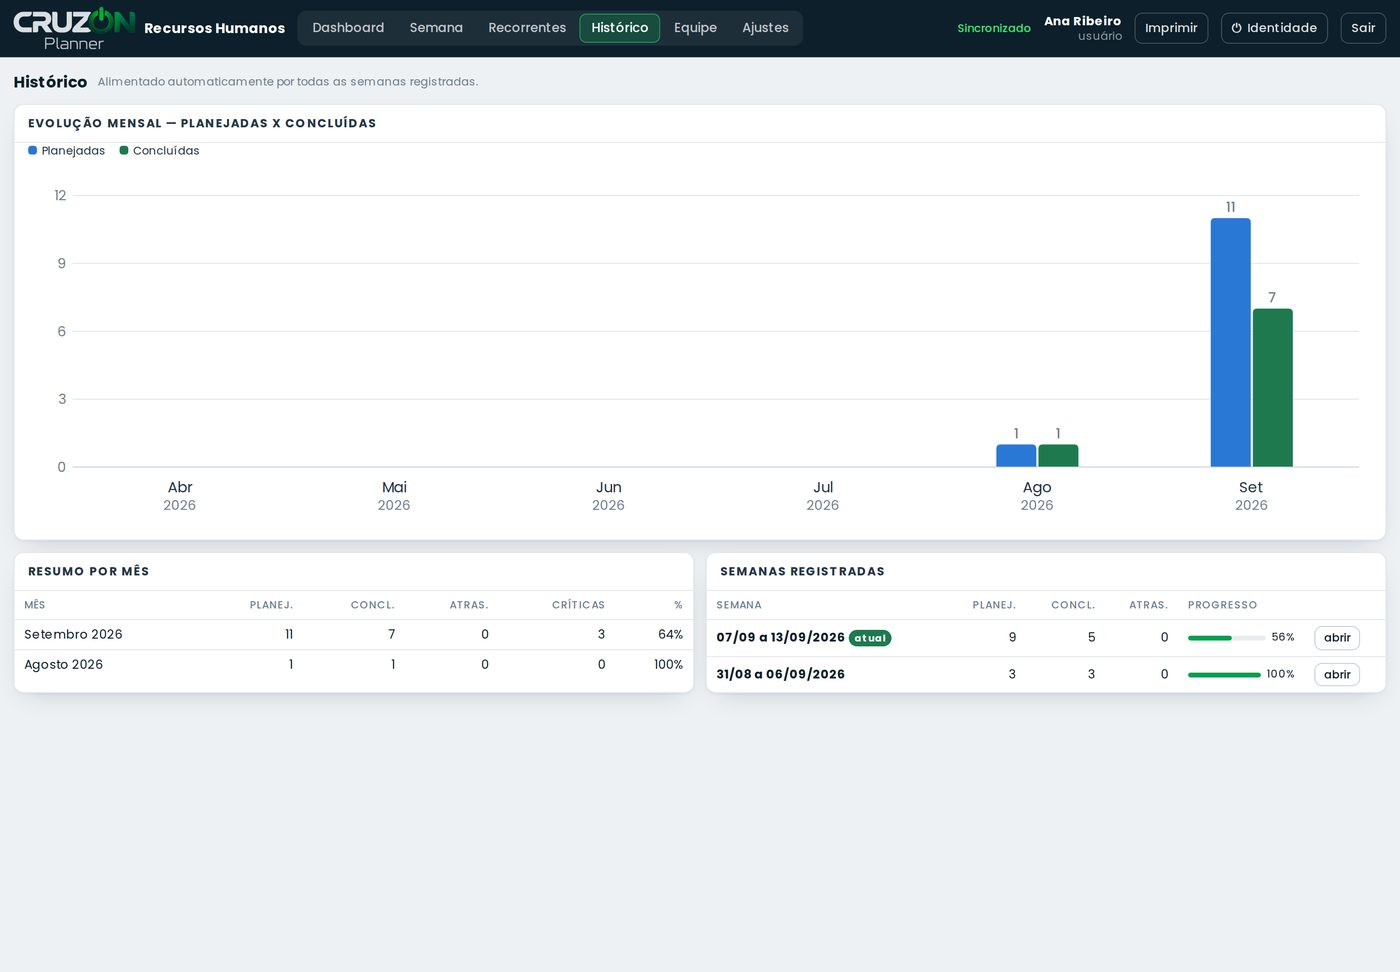
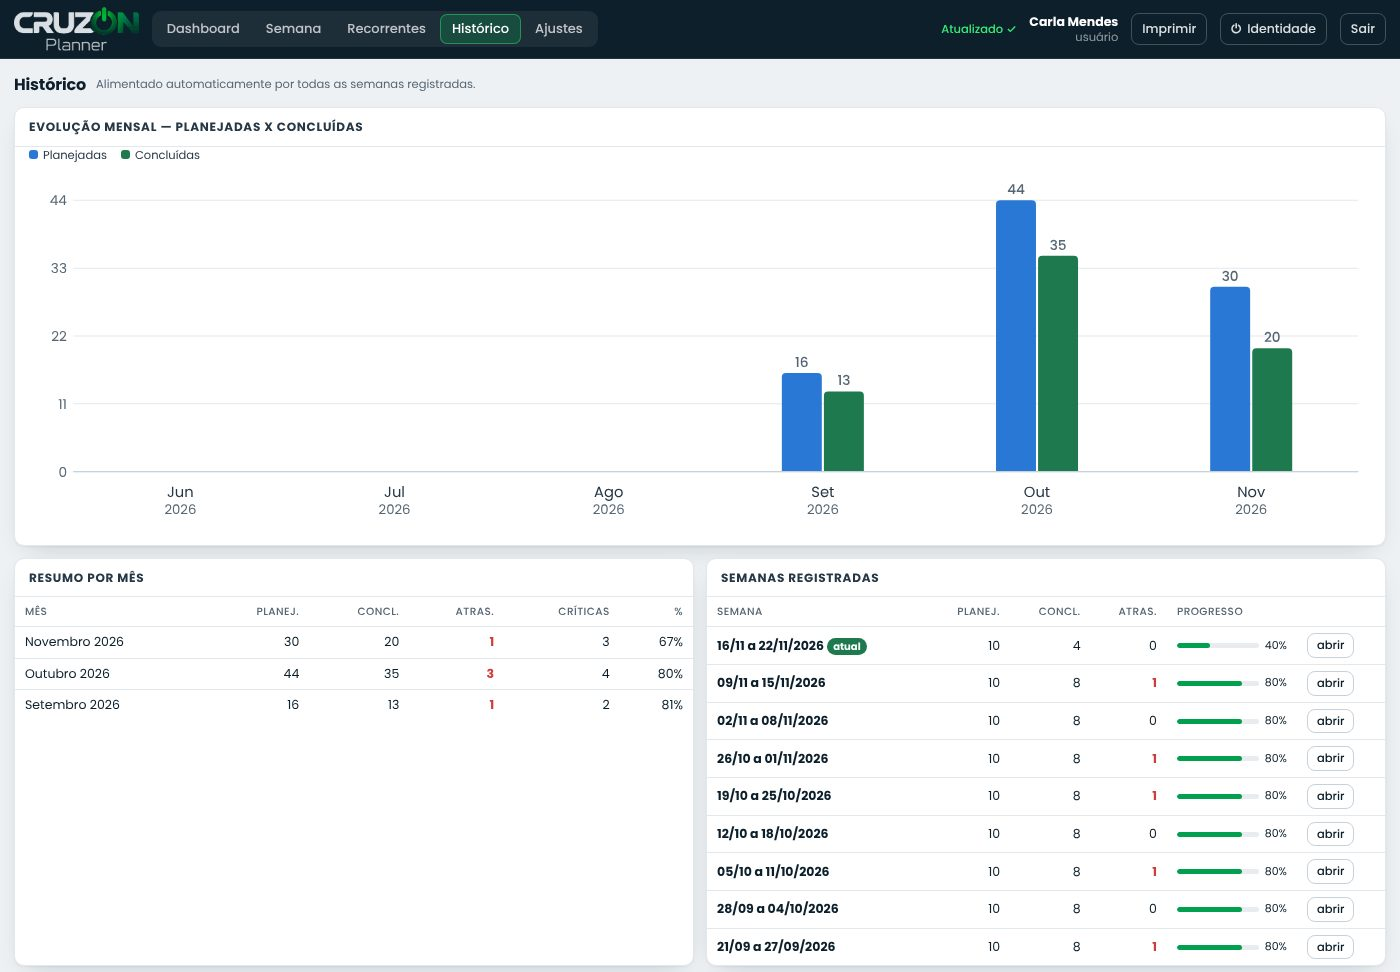
Página Conheça por app e prints do Planner só com dados fictícios
- Prints do Planner (manual e página Conheça) refeitos com uma pessoa e
  tarefas fictícias de escritório.
- Exemplos que o Planner dá a quem cria conta: áreas "Administrativo" e
  "Financeiro" e rotinas genéricas, no lugar das empresas e rotinas reais.
- Página Conheça: destaques, segurança, planos e perguntas próprios de
  cada app.

Claude-Session: https://claude.ai/code/session_012uehhAKXC5U5N1Yu2xeYap

diff --git a/conheca/index.html b/conheca/index.html
@@ -206,12 +206,7 @@ footer a{color:var(--verde-esc);font-weight:700;text-decoration:none;margin-righ
 </section>
 
 <div class="faixa">
-  <ul class="wrap">
-    <li><span class="n">🔗</span><div><b>3 apps, 1 conta</b><span>O mesmo e-mail e senha em todos</span></div></li>
-    <li><span class="n">🔒</span><div><b>Dados protegidos</b><span>Criptografia e acesso só seu</span></div></li>
-    <li><span class="n">📱</span><div><b>Computador e celular</b><span>Instala como app, sem loja</span></div></li>
-    <li><span class="n">💸</span><div><b>Teste grátis</b><span>Depois, mensal ou anual por Pix</span></div></li>
-  </ul>
+  <ul class="wrap" id="faixa"></ul>
 </div>
 
 <section id="recursos">
@@ -233,13 +228,8 @@ footer a{color:var(--verde-esc);font-weight:700;text-decoration:none;margin-righ
 <section id="seguranca">
   <div class="wrap">
     <div class="seg">
-      <div><span class="eyebrow">Segurança e privacidade</span><h2>Seus dados são só seus</h2>
-        <p>Os apps CruzOn foram feitos para guardar informações pessoais com cuidado. Você entra com a sua senha, e o que é seu fica protegido: nem o administrador lê os seus lançamentos.</p></div>
-      <ul>
-        <li><span>🔐</span><div><b>Criptografia no seu aparelho</b><small>No Finance e no CruzInvest, os dados são criptografados antes de ir para a nuvem.</small></div></li>
-        <li><span>☁</span><div><b>Sincronizado e com cópia</b><small>O que muda no celular aparece no computador, e você pode baixar um backup quando quiser.</small></div></li>
-        <li><span>⚖</span><div><b>Transparência (LGPD)</b><small>Aviso de Privacidade e Termos de Uso claros, e exportação dos seus dados a qualquer momento.</small></div></li>
-      </ul>
+      <div><span class="eyebrow">Segurança e privacidade</span><h2 id="segTit"></h2><p id="segTxt"></p></div>
+      <ul id="segItens"></ul>
     </div>
   </div>
 </section>
@@ -247,7 +237,7 @@ footer a{color:var(--verde-esc);font-weight:700;text-decoration:none;margin-righ
 <section id="planos" style="padding-top:20px">
   <div class="wrap centro">
     <span class="eyebrow">Planos</span>
-    <h2 class="tit">Experimente grátis, assine quando quiser</h2>
+    <h2 class="tit" id="planTit">Experimente grátis, assine quando quiser</h2>
     <p class="lead2">Cada app tem o seu período de teste. Gostou? Escolha o plano mensal ou anual e pague com Pix, sem burocracia.</p>
     <div class="planos">
       <div class="plano"><small>Teste</small><div class="preco">Grátis</div><p>Para conhecer o app com calma.</p>
@@ -260,7 +250,7 @@ footer a{color:var(--verde-esc);font-weight:700;text-decoration:none;margin-righ
         <ul><li>Todas as funções</li><li>Sincronização entre aparelhos</li><li>Pagamento por Pix</li></ul>
         <a class="btn out" data-criar href="#">Criar conta e testar</a></div>
     </div>
-    <p class="nota-planos">Os valores de cada app aparecem dentro dele, na tela de assinatura, ao fim do teste.</p>
+    <p class="nota-planos" id="planNota"></p>
   </div>
 </section>
 
@@ -268,14 +258,7 @@ footer a{color:var(--verde-esc);font-weight:700;text-decoration:none;margin-righ
   <div class="wrap centro">
     <span class="eyebrow">Dúvidas frequentes</span>
     <h2 class="tit">Perguntas comuns</h2>
-    <div class="faq">
-      <details><summary>Preciso pagar para começar?</summary><p>Não. Toda conta nova começa com um período de teste grátis em cada app, sem cartão de crédito. Ao fim do teste, você escolhe se quer assinar.</p></details>
-      <details><summary>Uma conta vale para os três apps?</summary><p>Sim. Com o mesmo e-mail e senha você entra no CruzOn Planner, no CruzOn Finance e no CruzInvest. Cada app tem o seu teste e a sua assinatura.</p></details>
-      <details><summary>Funciona no celular?</summary><p>Funciona no computador e no celular, pelo navegador. Dá para instalar na tela inicial como um aplicativo, sem passar pela loja, e os dados aparecem iguais nos dois.</p></details>
-      <details><summary>Como pago a assinatura?</summary><p>Por Pix, direto na tela de assinatura do app: aparece o QR code com o valor do plano e o botão para enviar o comprovante. O acesso é liberado assim que o pagamento é confirmado.</p></details>
-      <details><summary>Meus dados ficam seguros?</summary><p>Sim. O acesso é protegido pela sua senha e, no Finance e no CruzInvest, os dados são criptografados no seu aparelho antes de ir para a nuvem. Você também pode baixar um backup quando quiser.</p></details>
-      <details><summary>E se o teste acabar?</summary><p>Seus dados continuam guardados. Você pode baixar uma cópia ou assinar para continuar usando de onde parou.</p></details>
-    </div>
+    <div class="faq" id="faq"></div>
   </div>
 </section>
 
@@ -308,6 +291,9 @@ const APPS={
     blocos:[["../manual-semana.jpg","Semana","Planeje a semana arrastando tarefas",["Cada dia com suas tarefas, prioridade e prazo","Radar para o que ainda não tem data","Percentual concluído em cada tarefa"]],
       ["../manual-dash.jpg","Painel","Saiba o que está atrasado antes que vire problema",["Indicadores do andamento da semana","Atrasos e prioridades em destaque","Visão por empresa ou área"]],
       ["../manual-rec.jpg","Recorrentes","O que se repete, o app lança sozinho",["Tarefas semanais e mensais automáticas","Relatório de pendências no seu e-mail","Histórico de tudo o que foi feito"]]],
+    faixa:[["🗓","Semana num quadro","Tarefas por dia, prioridade e prazo"],["🔁","Rotinas automáticas","O que se repete entra sozinho"],["✉","Relatório por e-mail","Suas pendências nos dias que escolher"],["📱","Computador e celular","Instala como app, sem loja"]],
+    seg:["Sua rotina guardada com segurança","Cada pessoa tem o seu acesso e a sua lista de tarefas. O que você planeja fica ligado à sua conta e aparece igual em qualquer computador ou celular.",[["🔐","Acesso só seu","Entrada com e-mail e senha; cada perfil vê apenas as próprias tarefas."],["☁","Sempre sincronizado","Planeje no computador e confira no celular, sem perder nada."],["⚖","Transparência (LGPD)","Aviso de Privacidade claro e exportação dos seus dados quando quiser."]]],
+    faq:[["Serve para qualquer área?","Sim. Funciona para administrativo, financeiro, comercial, RH ou qualquer rotina de escritório: você cria as suas próprias áreas ou empresas e organiza as tarefas por elas."],["Dá para usar com a equipe?","Sim. Cada pessoa tem o seu acesso, e o administrador acompanha o andamento da equipe num painel próprio."]],
     passos:[["Crie sua conta","Nome, e-mail e senha. O teste começa no primeiro uso."],["Monte a sua semana","Lance as tarefas e as recorrentes; o app cuida do resto."],["Acompanhe de qualquer lugar","Computador ou celular, tudo sincronizado."]]},
   finance:{nome:"CruzOn Finance",curto:"Receitas, despesas e metas",ic:"../finance/icone-192.png",url:"../finance/",
     tit:'Seu dinheiro organizado, <em>sem planilhas</em>.',
@@ -318,6 +304,9 @@ const APPS={
     blocos:[["img/finance-painel.jpg","Painel","Entenda o seu mês num olhar",["Saldo das carteiras, receitas e despesas","Para onde foi o dinheiro, por categoria","Assistente que avisa o que merece atenção"]],
       ["img/finance-cartoes.jpg","Cartões e contas","Faturas, parcelas e contas fixas no lugar certo",["Cada compra cai na fatura certa","Parcelas lançadas para os meses seguintes","Alertas do que vence e do que atrasou"]],
       ["img/finance-metas.jpg","Orçamentos e metas","Planeje o futuro da família",["Limite por categoria com aviso ao estourar","Metas com quanto guardar por mês","9 relatórios em PDF e Excel"]]],
+    faixa:[["💳","Cartões e faturas","Cada compra na fatura certa"],["🔔","Alertas de vencimento","O que vence hoje e o que atrasou"],["🎯","Orçamentos e metas","Quanto gastar e quanto guardar"],["📄","Relatórios em PDF e Excel","9 relatórios prontos"]],
+    seg:["Seu dinheiro é assunto só seu","Os seus lançamentos são criptografados no seu aparelho antes de ir para a nuvem. Sem a sua senha, ninguém lê, nem o administrador.",[["🔐","Criptografia no aparelho","Proteção forte (AES-256) ligada à sua senha."],["☁","Sincronizado e com cópia","O que muda no celular aparece no computador, e o backup fica a um clique."],["📴","Funciona sem internet","Abre com a cópia do aparelho e sincroniza quando a conexão volta."]]],
+    faq:[["Preciso ligar minha conta do banco?","Não. Você lança receitas e despesas no app, com sugestões automáticas pela descrição. Nada é ligado ao seu banco."],["Serve para a família toda?","Sim. Cadastre as carteiras e os cartões da casa e acompanhe o orçamento familiar num lugar só."]],
     passos:[["Crie sua conta","Nome, e-mail e senha. Dá para começar com dados de exemplo."],["Cadastre carteiras e cartões","Informe o saldo e lance as contas fixas do mês."],["Acompanhe e planeje","Alertas, orçamentos, metas e relatórios sempre em dia."]]},
   invest:{nome:"CruzInvest",curto:"Carteira de investimentos",ic:"../cruzinvest/ci-icone-192.png",url:"../cruzinvest/",
     tit:'Seu patrimônio <em>sob controle</em>.',
@@ -328,8 +317,15 @@ const APPS={
     blocos:[["img/invest-painel.jpg","Painel","Patrimônio e rentabilidade num só lugar",["Valor investido, patrimônio e resultado","Comparação com o CDI","Alertas dos ativos fora dos seus limites"]],
       ["img/invest-saude.jpg","Saúde da carteira","Um semáforo para cada ativo",["P/L, P/VP, ROE, dívida e DY","Limites que você mesmo ajusta","Saudável, atenção ou risco, sem complicação"]],
       ["img/invest-proventos.jpg","Proventos","Dividendos e rendimentos em dia",["Recebidos e a receber","Últimos 12 meses e yield on cost","Importação direto dos arquivos da B3"]]],
+    faixa:[["🚦","Saúde de cada ativo","Semáforo com indicadores"],["💰","Proventos","Recebidos e a receber"],["📈","Comparação com o CDI","Rendendo mais que a renda fixa?"],["📥","Importa da B3","Extratos da Área do Investidor"]],
+    seg:["Sua carteira protegida","A carteira é criptografada no seu aparelho antes de ir para a nuvem. As cotações são consultadas por ticker, sem expor o seu patrimônio.",[["🔐","Criptografia no aparelho","Proteção forte (AES-256) ligada à sua senha."],["🔒","Bloqueio automático","O app se fecha sozinho depois do tempo sem uso que você escolher."],["💾","Backup criptografado","Baixe uma cópia segura da carteira quando quiser."]]],
+    faq:[["O CruzInvest recomenda compra ou venda?","Não. O semáforo é um filtro de atenção com base em indicadores públicos e nos limites que você define. A decisão é sempre sua."],["Quais investimentos posso acompanhar?","Ações, FIIs, BDRs e renda fixa. As cotações e os proventos são atualizados sozinhos."]],
     passos:[["Crie sua conta","Ou entre com a mesma conta dos outros apps CruzOn."],["Importe a carteira","Arquivos da B3, uma planilha simples ou lançamentos à mão."],["Acompanhe a saúde","Cotações, proventos e alertas atualizados sozinhos."]]}
 };
+const FAQ_COMUM=[["Preciso pagar para começar?","Não. Toda conta nova começa com um período de teste grátis, sem cartão de crédito. Ao fim do teste, você escolhe se quer assinar."],
+      ["Uma conta vale para os três apps?","Sim. Com o mesmo e-mail e senha você entra no CruzOn Planner, no CruzOn Finance e no CruzInvest. Cada app tem o seu teste e a sua assinatura."],
+      ["Como pago a assinatura?","Por Pix, direto na tela de assinatura do app: aparece o QR code com o valor do plano e o botão para enviar o comprovante. O acesso é liberado assim que o pagamento é confirmado."],
+      ["E se o teste acabar?","Seus dados continuam guardados. Você pode baixar uma cópia ou assinar para continuar de onde parou."]];
 const $=s=>document.querySelector(s), $$=s=>[...document.querySelectorAll(s)];
 const q=new URLSearchParams(location.search);
 let ref=(q.get("ref")||"").replace(/[^A-Za-z0-9]/g,"").slice(0,16);
@@ -355,6 +351,12 @@ function pinta(){
   $("#cel").innerHTML=`<img class="on" src="${a.cel}" alt="${a.nome} no celular" style="object-position:top left">`;
   $("#recEyebrow").textContent=a.rec[0]; $("#recTit").textContent=a.rec[1]; $("#recSub").textContent=a.rec[2];
   $("#blocos").innerHTML=a.blocos.map((b,n)=>`<div class="bloco ${n%2?'inv':''}"><div class="txt"><span class="eyebrow">${esc(b[1])}</span><h3>${esc(b[2])}</h3><ul>${b[3].map(x=>`<li>${esc(x)}</li>`).join("")}</ul><a class="saibamais" data-criar href="#">Experimentar grátis →</a></div><div class="shot"><img src="${b[0]}" alt="${esc(b[1])} do ${a.nome}" loading="lazy"></div></div>`).join("");
+  $("#faixa").innerHTML=a.faixa.map(f=>`<li><span class="n">${f[0]}</span><div><b>${esc(f[1])}</b><span>${esc(f[2])}</span></div></li>`).join("");
+  $("#segTit").textContent=a.seg[0]; $("#segTxt").textContent=a.seg[1];
+  $("#segItens").innerHTML=a.seg[2].map(x=>`<li><span>${x[0]}</span><div><b>${esc(x[1])}</b><small>${esc(x[2])}</small></div></li>`).join("");
+  $("#planTit").textContent="Experimente o "+a.nome+" grátis";
+  $("#planNota").textContent="Os valores do "+a.nome+" aparecem dentro do app, na tela de assinatura, ao fim do teste. Pagamento por Pix.";
+  $("#faq").innerHTML=[...a.faq,...FAQ_COMUM].map(f=>`<details><summary>${esc(f[0])}</summary><p>${esc(f[1])}</p></details>`).join("");
   $("#passos").innerHTML=a.passos.map(p=>`<div class="passo"><b>${esc(p[0])}</b><p>${esc(p[1])}</p></div>`).join("");
   $("#finalTit").textContent="Comece a usar o "+a.nome+", é grátis";
   $("#heroCriar").href=link(atual,true); $("#topCriar").href=link(atual,true); $("#topEntrar").href=link(atual,false);

diff --git a/index.html b/index.html
@@ -960,7 +960,7 @@ html[data-theme="dark"] .st-soon{color:#f6cf6a} html[data-theme="dark"] .st-run{
       <div class="card">
         <h3>Aparência</h3>
         <div class="formgrid">
-          <div class="field"><label>Nome exibido ao lado do logotipo</label><input id="cfgNomeExib" type="text" maxlength="40" placeholder="Ex.: Recursos Humanos, Financeiro, Nome da empresa"><span class="note" style="border:0;padding:4px 0 0;margin:0">É só seu: aparece ao lado do logotipo, na aba do navegador e nos relatórios impressos. Deixe vazio para não exibir nada.</span></div>
+          <div class="field"><label>Nome exibido ao lado do logotipo</label><input id="cfgNomeExib" type="text" maxlength="40" placeholder="Ex.: Administrativo, Financeiro, Nome da empresa"><span class="note" style="border:0;padding:4px 0 0;margin:0">É só seu: aparece ao lado do logotipo, na aba do navegador e nos relatórios impressos. Deixe vazio para não exibir nada.</span></div>
           <div class="field"><label>Tema</label><select id="cfgTheme"><option value="brand">Identidade CruzOn</option><option value="light">Claro</option><option value="dark">Escuro</option><option value="auto">Automático (segue o sistema)</option></select></div>
           <div class="field"><label>Fonte da semana</label><select id="cfgFont"><option value="10">Muito compacto (10px)</option><option value="11.5">Compacto (11,5px)</option><option value="13">Normal (13px)</option></select></div>
         </div>
@@ -976,7 +976,7 @@ html[data-theme="dark"] .st-soon{color:#f6cf6a} html[data-theme="dark"] .st-run{
         </div>
         <div style="overflow:auto"><table class="tbl" id="tblComps"></table></div>
         <div class="formgrid" style="border-top:1px solid var(--line);padding-bottom:0">
-          <div class="field"><label>Nome da empresa</label><input id="ncNome" type="text" placeholder="Ex.: CNA" maxlength="28"></div>
+          <div class="field"><label>Nome da empresa</label><input id="ncNome" type="text" placeholder="Ex.: Administrativo" maxlength="28"></div>
           <div class="field"><label>Cor</label><input id="ncCor" type="color" value="#2a78d6"></div>
           <div class="field"><label>Opacidade do preenchimento — <span id="cfgOpacLbl">14%</span></label><input id="cfgOpac" type="range" min="4" max="60" step="2"></div>
         </div>
@@ -2981,8 +2981,8 @@ const DAYS=["SEGUNDA","TERÇA","QUARTA","QUINTA","SEXTA","SÁBADO","DOMINGO"];
 const DAYSFULL=["Segunda-feira","Terça-feira","Quarta-feira","Quinta-feira","Sexta-feira","Sábado","Domingo"];
 const MESES=["Janeiro","Fevereiro","Março","Abril","Maio","Junho","Julho","Agosto","Setembro","Outubro","Novembro","Dezembro"];
 const PRIOS=["Crítica","Alta","Média","Baixa"];
-const EMPS=["CNA","MINAS/SUZANA"];                     /* padrão inicial; a lista real fica no perfil */
-const DEFCOMPS=[{nome:"CNA",cor:"#2a78d6"},{nome:"MINAS/SUZANA",cor:"#eb6834"}];
+const EMPS=["Administrativo","Financeiro"];                     /* padrão inicial; a lista real fica no perfil */
+const DEFCOMPS=[{nome:"Administrativo",cor:"#2a78d6"},{nome:"Financeiro",cor:"#eb6834"}]; /* exemplos genéricos para quem cria conta */
 function comps(){ return (V&&V.companies&&V.companies.length)?V.companies:DEFCOMPS.map((c,i)=>({id:"d"+i,...c})); }
 function compNames(){ return comps().map(c=>c.nome); }
 /* a empresa da tarefa pode ter sido excluída do cadastro: ela continua na lista,
@@ -3048,22 +3048,18 @@ const NOMEK = "cruzon:nomeexib";   /* ultimo nome exibido neste aparelho */   /*
 let SESSION=null, ME=null, PERFIL=null, V=null, APP={app:{}};
 let CURWEEK=iso(mondayOf(new Date())), VIEW="dash", OFFLINE=false;
 
-const SEED_TASKS=[{"d":0,"p":"Alta","e":"CNA","t":"Separar documentos das admissões da semana","due":"","pct":0},{"d":0,"p":"Média","e":"CNA","t":"Conferir marcações de ponto","due":"","pct":0},{"d":1,"p":"Crítica","e":"CNA","t":"Envio e-Social — competência anterior","due":"","pct":0},{"d":2,"p":"Média","e":"CNA","t":"Reunião de alinhamento com a equipe","due":"","pct":100},{"d":3,"p":"Média","e":"MINAS/SUZANA","t":"Conferir ASOs pendentes","due":"","pct":25},{"d":3,"p":"Baixa","e":"MINAS/SUZANA","t":"Cotar treinamento de segurança","due":"","pct":0},{"d":4,"p":"Crítica","e":"CNA","t":"Enviar guias ao financeiro","due":"","pct":0},{"d":4,"p":"Alta","e":"MINAS/SUZANA","t":"Fechar indicadores da semana","due":"","pct":0}];
+const SEED_TASKS=[{"d": 0, "p": "Alta", "e": "Administrativo", "t": "Conferir agenda e e-mails da semana", "due": "", "pct": 100}, {"d": 0, "p": "Média", "e": "Financeiro", "t": "Lançar notas fiscais de fornecedores", "due": "", "pct": 100}, {"d": 1, "p": "Crítica", "e": "Financeiro", "t": "Pagar contas com vencimento hoje", "due": "", "pct": 100}, {"d": 1, "p": "Média", "e": "Administrativo", "t": "Atualizar planilha de contratos", "due": "", "pct": 50}, {"d": 2, "p": "Média", "e": "Administrativo", "t": "Reunião de alinhamento com a equipe", "due": "", "pct": 0}, {"d": 2, "p": "Alta", "e": "Financeiro", "t": "Conciliação bancária da semana", "due": "", "pct": 25}, {"d": 3, "p": "Baixa", "e": "Administrativo", "t": "Cotar material de escritório", "due": "", "pct": 0}, {"d": 3, "p": "Alta", "e": "Financeiro", "t": "Emitir boletos de clientes", "due": "", "pct": 0}, {"d": 4, "p": "Alta", "e": "Administrativo", "t": "Relatório semanal para a diretoria", "due": "", "pct": 0}, {"d": 4, "p": "Baixa", "e": "Administrativo", "t": "Digitalizar e arquivar documentos", "due": "", "pct": 0}];
 const SEED_RULES=[
- {on:true,e:"CNA",t:"Envio e-Social (fechamento mensal)",p:"Crítica",freq:"Mensal",dia:7,mes:"",obs:"Competência do mês anterior"},
- {on:true,e:"CNA",t:"Envio FGTS Digital",p:"Crítica",freq:"Mensal",dia:7,mes:"",obs:"Guia + conferência antes do vencimento"},
- {on:true,e:"CNA",t:"Envio DCTFWeb",p:"Crítica",freq:"Mensal",dia:15,mes:"",obs:""},
- {on:true,e:"CNA",t:"Envio de impostos ao Financeiro",p:"Alta",freq:"Mensal",dia:18,mes:"",obs:"Encaminhar guias conferidas"},
- {on:true,e:"MINAS/SUZANA",t:"Envio SST Minas",p:"Alta",freq:"Mensal",dia:10,mes:"",obs:""},
- {on:true,e:"MINAS/SUZANA",t:"Envio agentes nocivos Minas",p:"Alta",freq:"Mensal",dia:10,mes:"",obs:""},
- {on:true,e:"MINAS/SUZANA",t:"Indicadores financeiros Suzana",p:"Média",freq:"Mensal",dia:5,mes:"",obs:""},
- {on:true,e:"CNA",t:"Conferência mensal extrator DIRF",p:"Média",freq:"Mensal",dia:20,mes:"",obs:""},
- {on:true,e:"CNA",t:"Kit absenteísmo",p:"Média",freq:"Mensal",dia:10,mes:"",obs:""},
- {on:true,e:"MINAS/SUZANA",t:"Revisar marcações de ponto",p:"Alta",freq:"Mensal",dia:26,mes:"",obs:"Fechamento do ponto"},
- {on:true,e:"CNA",t:"Conferência de ponto (equipe)",p:"Média",freq:"Semanal",dia:3,mes:"",obs:"Quarta-feira"},
- {on:true,e:"MINAS/SUZANA",t:"Backup dos servidores/particulares",p:"Alta",freq:"Semanal",dia:5,mes:"",obs:"Sexta-feira"},
- {on:true,e:"CNA",t:"DIRF (declaração anual)",p:"Crítica",freq:"Anual",dia:25,mes:2,obs:"Prazo legal — conferir calendário"},
- {on:true,e:"CNA",t:"Programação de férias da equipe",p:"Média",freq:"Anual",dia:30,mes:11,obs:""}
+ {on:true,e:"Administrativo",t:"Conferir agenda e e-mails da semana",p:"Alta",freq:"Semanal",dia:1,mes:"",obs:"Segunda-feira"},
+ {on:true,e:"Financeiro",t:"Pagar contas a vencer",p:"Crítica",freq:"Semanal",dia:2,mes:"",obs:"Terça-feira"},
+ {on:true,e:"Financeiro",t:"Conciliação bancária",p:"Alta",freq:"Semanal",dia:4,mes:"",obs:"Quinta-feira"},
+ {on:true,e:"Administrativo",t:"Backup dos arquivos do escritório",p:"Alta",freq:"Semanal",dia:5,mes:"",obs:"Sexta-feira"},
+ {on:true,e:"Financeiro",t:"Pagamento do aluguel",p:"Crítica",freq:"Mensal",dia:5,mes:"",obs:""},
+ {on:true,e:"Financeiro",t:"Enviar documentos ao contador",p:"Alta",freq:"Mensal",dia:10,mes:"",obs:"Notas, extratos e recibos do mês"},
+ {on:true,e:"Administrativo",t:"Reunião mensal de resultados",p:"Média",freq:"Mensal",dia:15,mes:"",obs:""},
+ {on:true,e:"Financeiro",t:"Emitir notas fiscais do mês",p:"Alta",freq:"Mensal",dia:25,mes:"",obs:""},
+ {on:true,e:"Administrativo",t:"Renovar alvará de funcionamento",p:"Crítica",freq:"Anual",dia:31,mes:3,obs:"Conferir documentos com antecedência"},
+ {on:true,e:"Administrativo",t:"Inventário de materiais e equipamentos",p:"Média",freq:"Anual",dia:15,mes:12,obs:""}
 ];
 const DEFCOLORS={a:"#2a78d6",b:"#eb6834"};
 function newPayload(opts){
